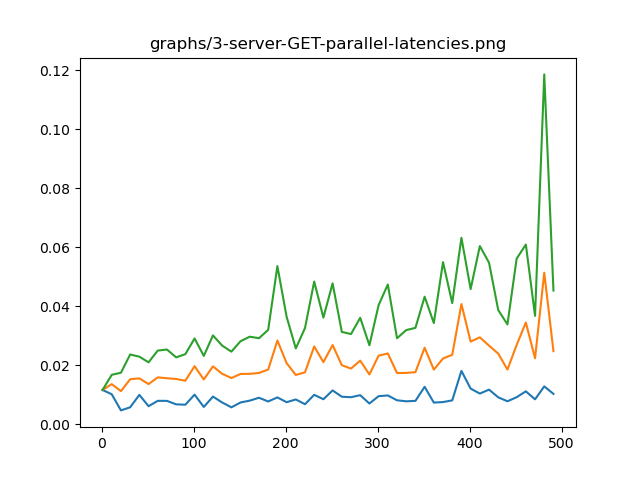
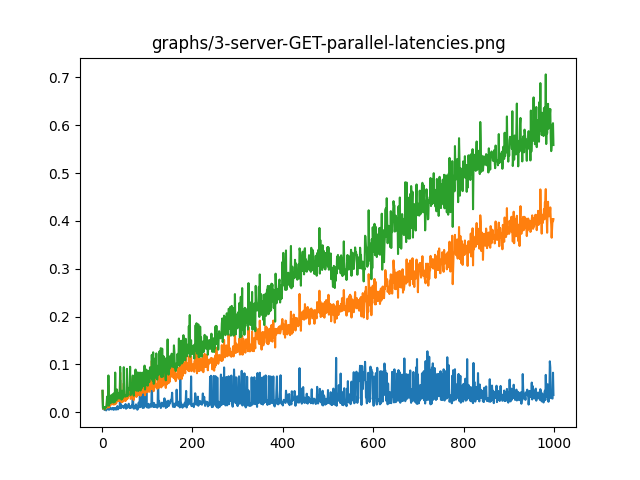
Add shelf

diff --git a/client/perf.py b/client/perf.py
@@ -13,7 +13,7 @@ def perf_get_rpc_latency():
     latencies = []
     batch_throughputs = []
     # Do 1, 1000, 1
-    for thread_count in range(1, 500, 10):
+    for thread_count in range(1, 1000, 1):
         batch = []
         print(f"Testing with {thread_count} threads")
         with ThreadPoolExecutor(max_workers=thread_count) as executor:
@@ -161,7 +161,7 @@ def single_thread_throughput():
 
 
 if __name__ == "__main__":
-    # perf_get_rpc_latency()
+    #perf_get_rpc_latency()
     # perf_put_rpc_latency()
-    #perf_degradation()
-    single_thread_throughput()
+    perf_degradation()
+    # #single_thread_throughput()

diff --git a/client/client.py b/client/client.py
@@ -21,7 +21,7 @@ NODE_IPS = {
     "server-1": 'localhost:5440',
     "server-2": 'localhost:5441',
     "server-3": 'localhost:5442'}
-LEADER_NAME = "server-1"
+LEADER_NAME = "server-2"
 
 
 def random_requests():
